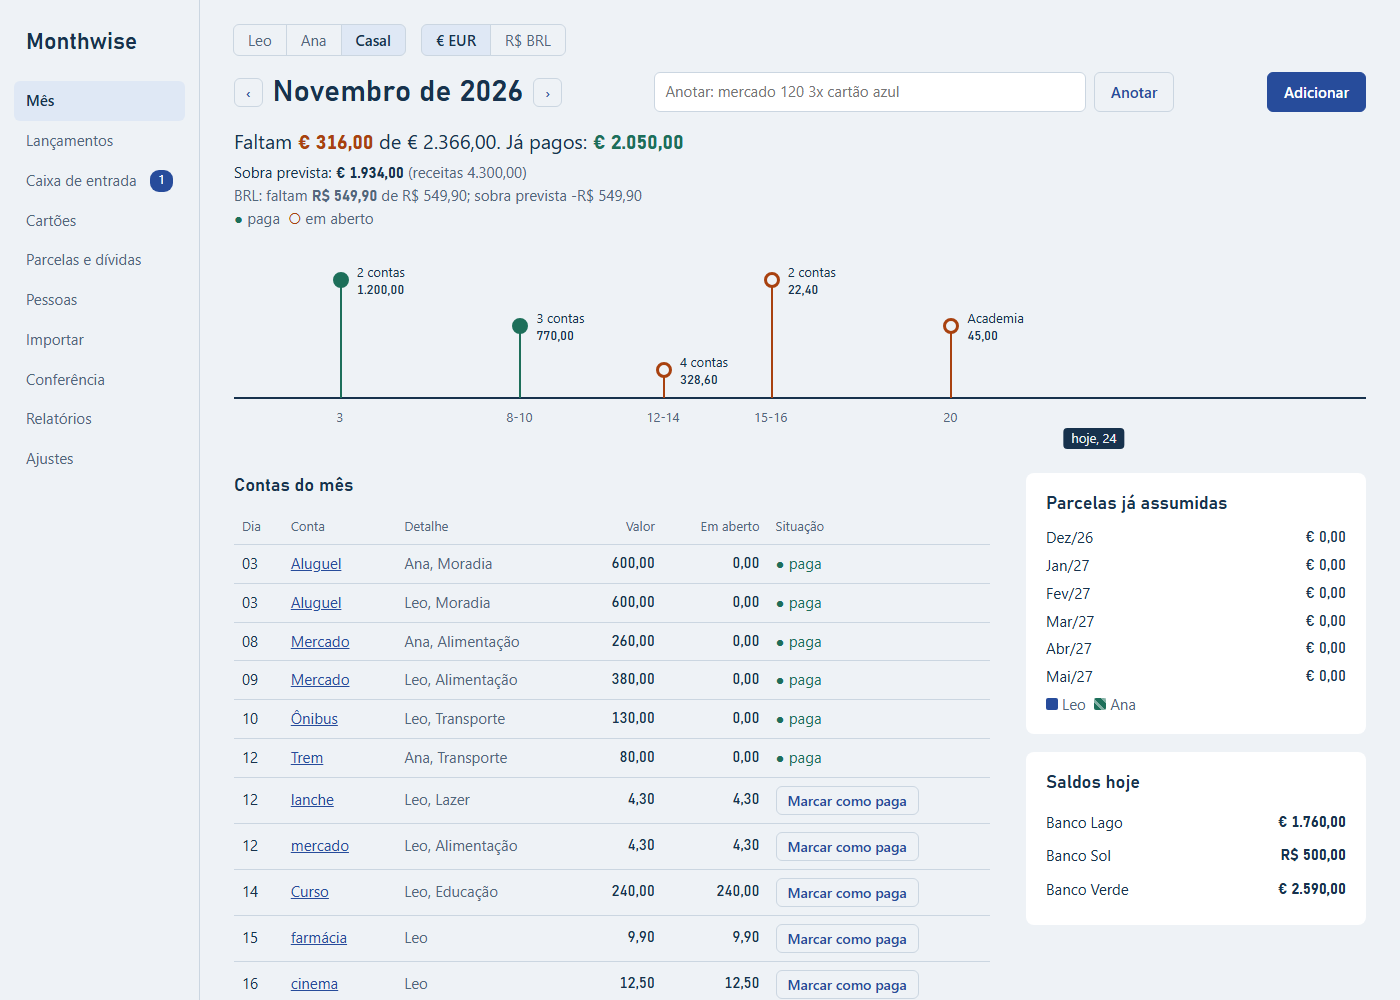
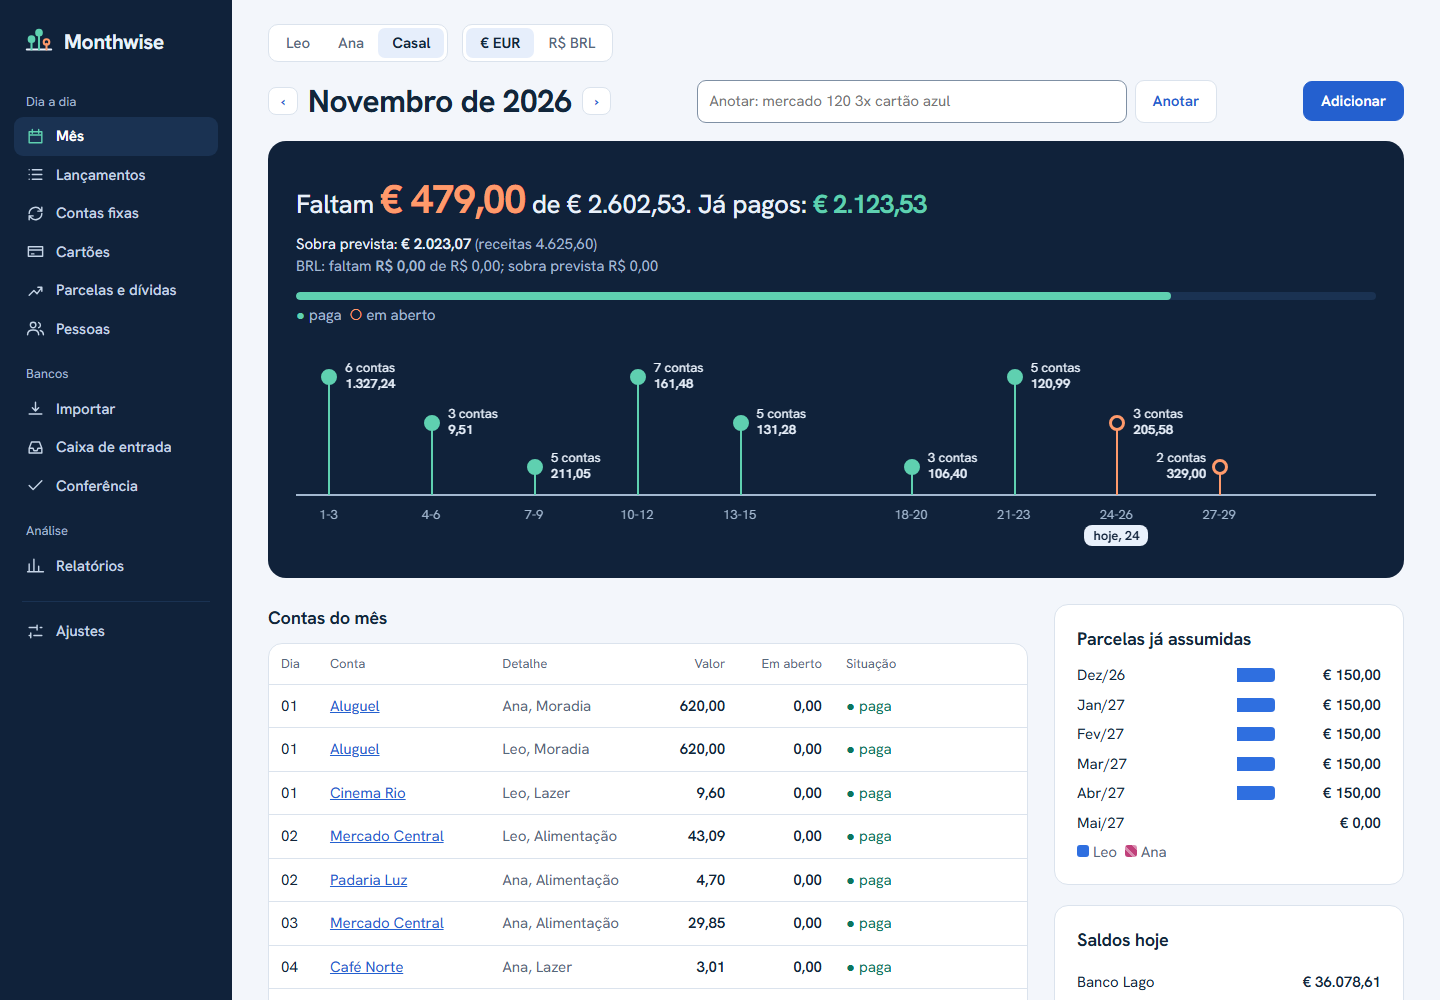
docs: versão 0.4

diff --git a/README.md b/README.md
@@ -23,10 +23,10 @@ Veja quanto falta pagar no mês e quanto dos próximos já está comprometido.</
 | **Casal** | Visão de cada pessoa e dos dois juntos, também nos gráficos. |
 | **Anotação rápida** | Escreva `mercado 12 azul`, confira o que foi entendido e salve. |
 | **Contas fixas** | Aluguel, assinaturas e salário, com total por mês e por ano. |
-| **Extratos** | Revolut, Wise e Banco do Brasil reconhecidos. De outros bancos, informe nome e moeda (OFX, CSV ou Excel, também em zip ou com senha). |
+| **Extratos** | Revolut, Wise, Banco do Brasil e C6 Bank reconhecidos. De outros bancos, informe nome e moeda (OFX, CSV ou Excel, também em zip ou com senha). |
 | **Conferência** | Junta o que você anotou com o extrato, pergunta quando há dúvida e compara o saldo com o do banco. |
 | **Cartões e dívidas** | Faturas, parcelas, consignado, quitação e refinanciamento. |
-| **Relatórios** | Categorias, renda e gastos por mês, parcelas futuras e exportação CSV. |
+| **Relatórios** | Evolução por dia, semana, mês, ano e entre anos, fluxo do dinheiro, categorias, lugares, calendário, ritmo do mês e saldo. |
 | **Backup** | Cópia diária e restauração com prévia. |
 
 ![Conferência de um extrato: o que já foi anotado, o que é novo e o que precisa de decisão](docs/conferir.png)
